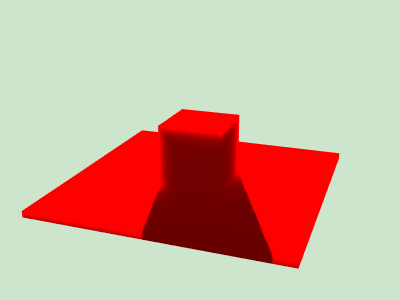
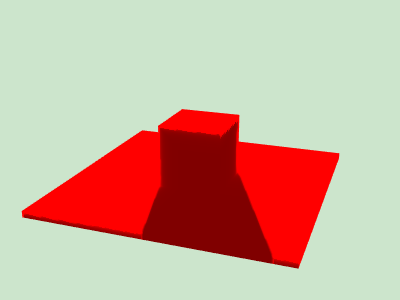
Tune params in moment shadow map.

Changed region(s): [[0.39, 0.39, 0.6, 0.66], [0.06, 0.69, 0.36, 0.81], [0.69, 0.87, 0.75, 0.9]]

diff --git a/js/moment-shadow-demo.js b/js/moment-shadow-demo.js
@@ -95,7 +95,7 @@ in vec4 vLightCoord;
 out vec4 fragColor;
 
 float computeVisibility(vec4 depthMapSample, float fragLightDist) {
-  float alpha = 9e-3;
+  float alpha = 9e-4;
   vec4 b = (1. - alpha) * depthMapSample + alpha * vec4(0., .63, 0, .63);
   mat3 B = mat3(
       1.0, b.x, b.y,
@@ -121,7 +121,7 @@ void main() {
   float fragLightDist = lightCoord.z;
   vec4 depthMapSample = texture(uDepthMap, lightCoord.xy);
   float visibility = computeVisibility(depthMapSample, fragLightDist);
-  fragColor = vec4(.4 + .6 * visibility, 0, 0, 1);
+  fragColor = vec4(.5 + .5 * visibility, 0, 0, 1);
 }
 
 `;
